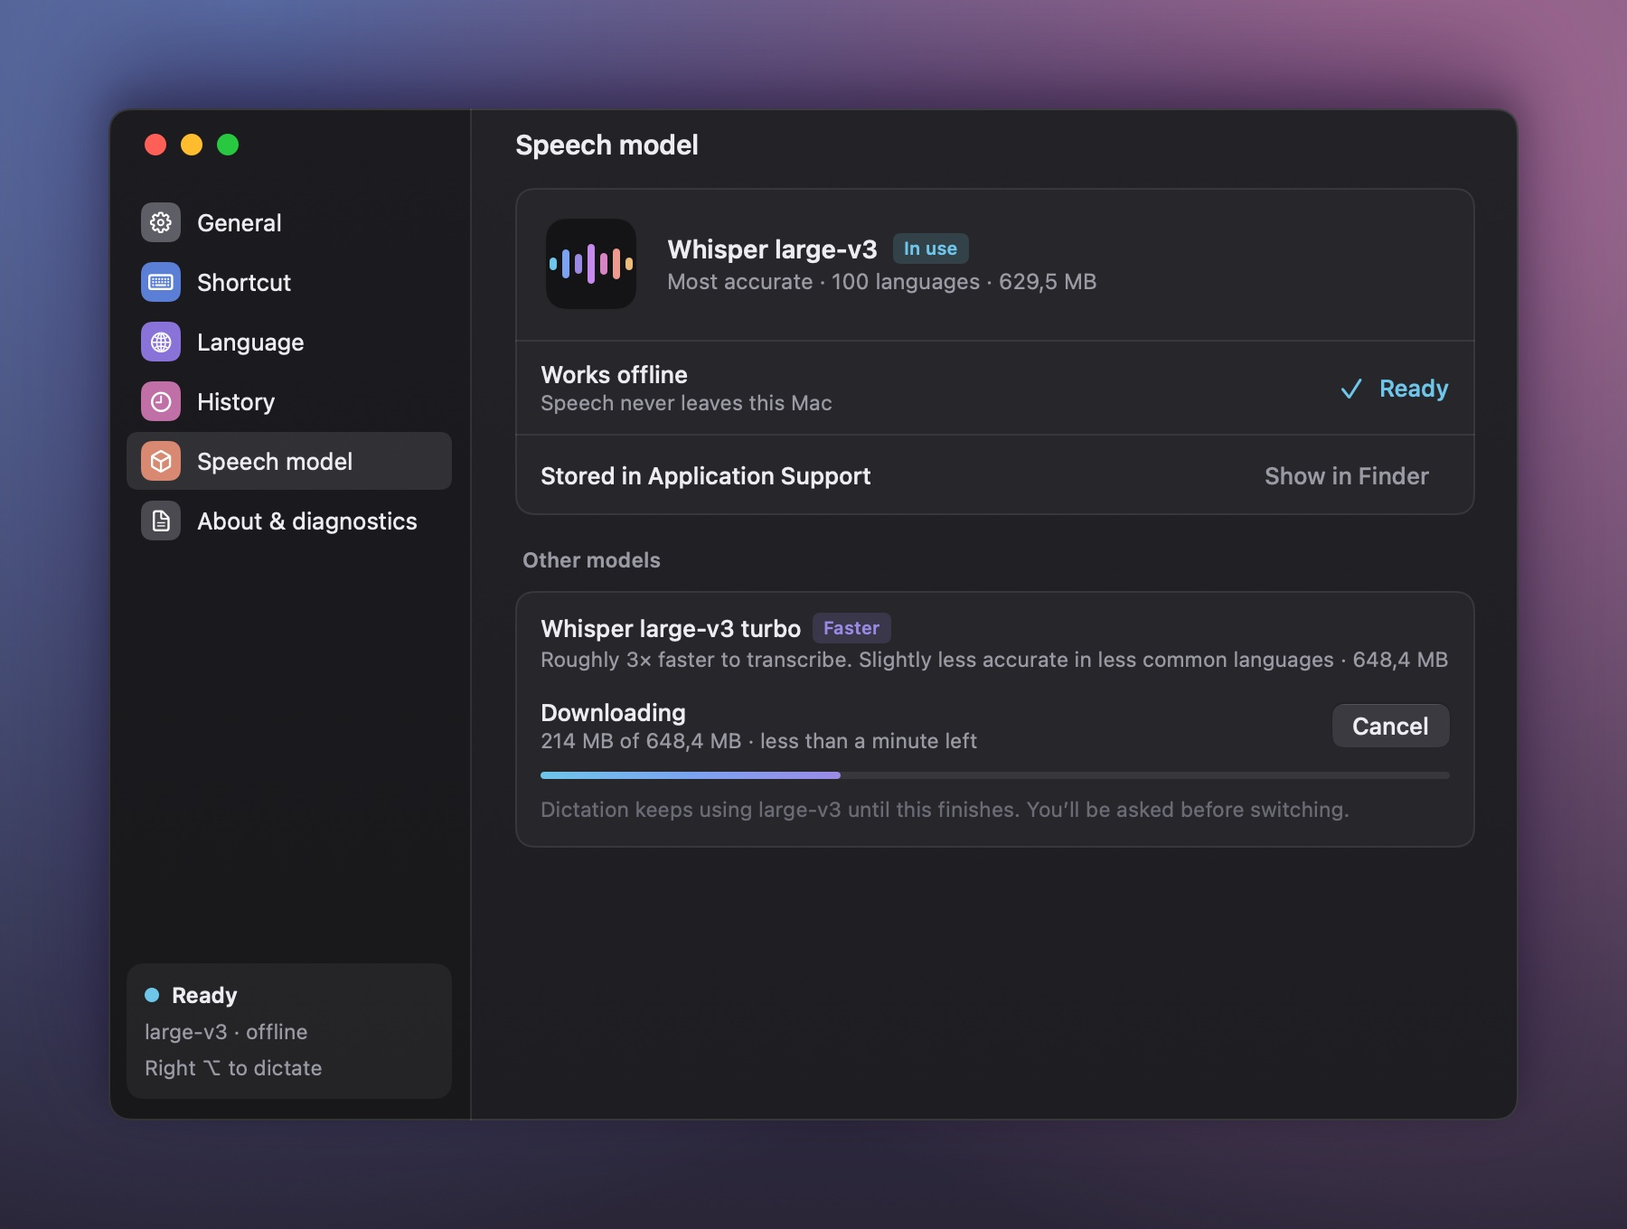
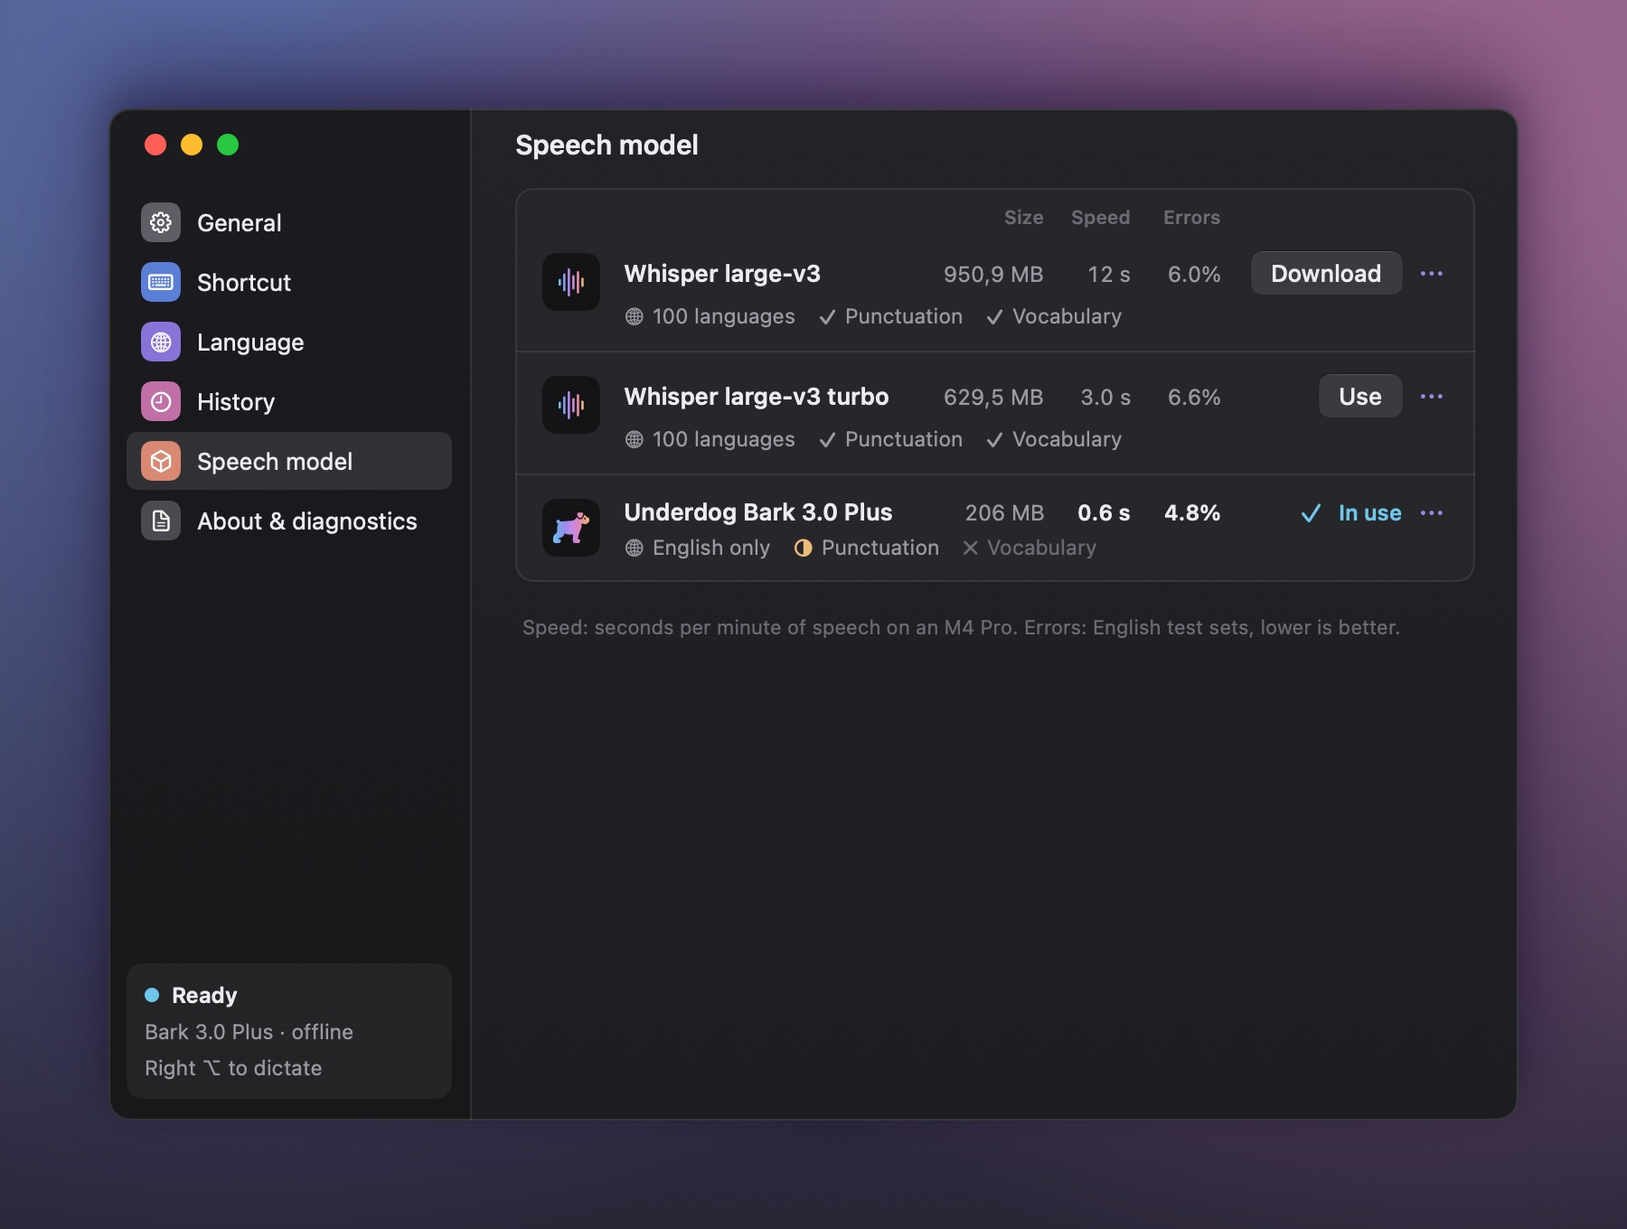
docs: describe the speech models and how to choose one
The README compares the three models with their measured speed, word
errors and languages, shows the setup chooser and the language picker
while Bark is in use, and explains how to prefetch, smoke-test and
benchmark each model. The privacy policy names Bark's Hugging Face
repository as a download source, with the new download sizes.

diff --git a/docs/privacy/index.html b/docs/privacy/index.html
@@ -89,7 +89,7 @@
               <li><strong>VibeScribe does not collect any personal data.</strong> Nothing you say, dictate or type is sent to us or to anyone else.</li>
               <li><strong>Your voice is processed on your Mac.</strong> The audio is held in memory only while it is being transcribed, then discarded. It is never saved to disk and never uploaded.</li>
               <li><strong>Your transcripts, history, vocabulary and settings stay on your Mac</strong>, and you can delete them at any time.</li>
-              <li><strong>The only network access is downloading the Whisper speech model</strong> from Hugging Face (huggingface.co). Like any download, this reveals your Mac’s IP address to Hugging Face.</li>
+              <li><strong>The only network access is downloading the speech model you choose</strong> from Hugging Face (huggingface.co). Like any download, this reveals your Mac’s IP address to Hugging Face.</li>
               <li><strong>There are no analytics, ads, tracking, third-party SDKs or accounts.</strong></li>
             </ul>
           </div>
@@ -102,7 +102,7 @@
         <p>VibeScribe listens only while you hold your dictation shortcut, or after you tap it to start hands-free dictation, until you stop or cancel. The audio:</p>
         <ul>
           <li>comes from the microphone you choose in Settings › General,</li>
-          <li>is kept in your Mac’s memory while the Whisper model transcribes it on your Mac,</li>
+          <li>is kept in your Mac’s memory while the speech model transcribes it on your Mac,</li>
           <li>is discarded as soon as the text is ready or you cancel with esc,</li>
           <li>is never written to disk, never uploaded and never shared.</li>
         </ul>
@@ -119,7 +119,7 @@
           <li><strong>Transcript history.</strong> When history is on, each transcript is saved with its date and time, its language, the length of the recording, and the name of the app it was pasted into (or “Clipboard”). History is kept for 30 days by default. In Settings › History you can choose Don’t keep history, Keep 1 day, Keep 7 days, Keep 30 days or Keep forever. Older entries are deleted automatically.</li>
           <li><strong>Your latest transcript</strong> is also kept in memory, even when history is off, so that you can copy it from the menu bar. It is gone when you quit VibeScribe.</li>
           <li><strong>Settings and vocabulary.</strong> Your shortcuts, languages (chosen, pinned and recently used), microphone choice, sound, pasting and menu bar options, history setting, chosen speech model and the vocabulary words you enter are stored in the app’s standard macOS preferences.</li>
-          <li><strong>Speech models.</strong> The Whisper model files, about 630 MB for large-v3 and about 650 MB for large-v3 turbo, are stored in the app’s Application Support folder.</li>
+          <li><strong>Speech models.</strong> The speech model files, about 950 MB for Whisper large-v3, about 630 MB for large-v3 turbo and about 210 MB for Underdog Bark 3.0 Plus, are stored in the app’s Application Support folder.</li>
           <li><strong>Activity log.</strong> VibeScribe keeps a short technical log in memory, such as “Recording stopped” or “Pasted into the active app”. It never contains what you said, it is not saved to disk, and it is cleared when you quit. If you click <strong>Copy diagnostic report</strong> in Settings › About &amp; diagnostics, the log, together with the app and macOS versions, model status, permission status and your main settings, is copied to your clipboard so you can decide whether to share it. Nothing is sent automatically.</li>
         </ul>
         <h2 id="how-to-delete-your-data">How to delete your data</h2>
@@ -133,8 +133,8 @@
         <h2 id="network-access">Network access</h2>
         <p>VibeScribe connects to the internet for one purpose only: downloading speech model files from Hugging Face, Inc. at huggingface.co, which may hand large files over to its content delivery network.</p>
         <ul>
-          <li><strong>When:</strong> during setup, after you click “Set up VibeScribe”; when you choose to download another model, such as large-v3 turbo, in Settings › Speech model; and if the model files on your Mac are missing or damaged, when you download them again.</li>
-          <li><strong>What is requested:</strong> fixed versions of public files, namely Argmax’s Core ML conversion of Whisper (argmaxinc/whisperkit-coreml) and OpenAI’s Whisper tokenizer files (openai/whisper-large-v3). Each file is checked against a known SHA-256 checksum before it is used.</li>
+          <li><strong>When:</strong> during setup, after you choose a speech model; when you choose to download another model, such as large-v3 or Bark 3.0 Plus, in Settings › Speech model or the language picker; and if the model files on your Mac are missing or damaged, when you download them again.</li>
+          <li><strong>What is requested:</strong> fixed versions of public files, namely Argmax’s Core ML conversion of Whisper (argmaxinc/whisperkit-coreml), OpenAI’s Whisper tokenizer files (openai/whisper-large-v3) and Conway Research’s Core ML package of Underdog Bark 3.0 Plus (ConwayResearch/Underdog-Bark-3.0-Plus). Each file is checked against a known SHA-256 checksum before it is used.</li>
           <li><strong>What is sent:</strong> only ordinary download requests. No audio, transcripts, vocabulary, settings, account details or identifiers are sent. The download keeps no cookies or cache afterwards.</li>
           <li><strong>What Hugging Face sees:</strong> like any web server, Hugging Face and its delivery network receive your Mac’s IP address and standard request details, such as the time of the request and a basic description of the software making it. Hugging Face handles this under its own privacy policy: <a href="https://huggingface.co/privacy">huggingface.co/privacy</a>. We do not receive this information.</li>
         </ul>
@@ -152,7 +152,7 @@
         </div>
         <p>You can change these at any time in System Settings › Privacy &amp; Security.</p>
         <h2 id="third-party-components">Third-party components</h2>
-        <p>VibeScribe uses WhisperKit, open-source software by Argmax, Inc., to run OpenAI’s Whisper speech recognition models on your Mac. Both run entirely on your Mac inside VibeScribe and send nothing to Argmax, OpenAI or anyone else. VibeScribe contains no analytics, advertising, crash-reporting or tracking code.</p>
+        <p>VibeScribe uses WhisperKit, open-source software by Argmax, Inc., to run OpenAI’s Whisper speech recognition models on your Mac, and Apple’s Core ML to run Underdog Bark, an English speech recognition model by Conway Research. All of it runs entirely on your Mac inside VibeScribe and sends nothing to Argmax, OpenAI, Conway Research or anyone else. VibeScribe contains no analytics, advertising, crash-reporting or tracking code.</p>
         <h2 id="children">Children</h2>
         <p>VibeScribe is a general-purpose tool and is not directed at children. It does not collect personal data from anyone, including children. If you believe a child has shared personal information with us, for example in a public GitHub issue, contact us and we will help remove it.</p>
         <h2 id="this-website">This website</h2>

diff --git a/README.md b/README.md
@@ -2,7 +2,7 @@
 
 ![VibeScribe: hold a key, speak, and it’s pasted](assets/hero.jpg)
 
-A menu bar app for push-to-talk dictation on Mac. Hold a key, speak, and let go: VibeScribe types what you said wherever your cursor is. Speech is transcribed on your Mac with [WhisperKit](https://github.com/argmaxinc/argmax-oss-swift), in 100 languages. No account, API key or cloud service is involved.
+A menu bar app for push-to-talk dictation on Mac. Hold a key, speak, and let go: VibeScribe types what you said wherever your cursor is. Speech is transcribed on your Mac, either by Whisper through [WhisperKit](https://github.com/argmaxinc/argmax-oss-swift) in 100 languages, or by the faster, English-only [Underdog Bark](https://huggingface.co/ConwayResearch/Underdog-Bark-3.0-Plus). No account, API key or cloud service is involved.
 
 ## Install
 
@@ -19,7 +19,7 @@ The app runs on macOS 14 or later on Apple Silicon. Building it requires macOS 1
    ```
 
 2. Move `VibeScribe.app` to your Applications folder and open it.
-3. Follow the setup window. It asks for three permissions and downloads the speech model (about 630 MB) while you grant them:
+3. Follow the setup window. Pick a speech model, then grant three permissions while it downloads:
    - **Microphone**, to hear you
    - **Input Monitoring**, so the shortcut works in every app
    - **Accessibility**, to paste for you. Without it, transcripts are copied and you press ⌘V yourself.
@@ -46,17 +46,21 @@ A small pill below the menu bar shows what’s happening. The waveform follows y
 
 ### First launch
 
-The model download starts on the first screen and continues while you grant permissions, so you rarely wait on a progress bar. You can pause it, and if your connection drops it resumes on its own.
+The second screen compares the speech models by size, speed, accuracy and languages. The one you pick starts downloading right away and keeps going while you grant permissions, so you rarely wait on a progress bar. You can pause it, and if your connection drops it resumes on its own.
 
 ![Setup: welcome screen and practice run](assets/screenshots/setup-welcome.jpg)
+
+<img src="assets/screenshots/setup-model.jpg" width="560" alt="Setup: choosing a speech model, with size, speed, word errors and languages for Whisper large-v3, large-v3 turbo and Underdog Bark 3.0 Plus">
 
 ![Setup: permissions and the model download](assets/screenshots/setup.jpg)
 
 ### Languages
 
-Press **⌥⇧** anywhere to search the 100 languages by English or native name. Pin up to three favourites for **⌘1–⌘3**; the languages you used recently sit just below them. **Automatic** detects the language for you.
+Press **⌥⇧** anywhere to search the 100 languages by English or native name. Pin up to three favourites for **⌘1–⌘3**; the languages you used recently sit just below them. **Automatic** detects the language for you. Bark understands only English, so while it’s in use the picker offers to switch to Whisper instead.
 
 ![The language picker, empty and while searching](assets/screenshots/language-picker.jpg)
+
+<img src="assets/screenshots/language-picker-english.jpg" width="380" alt="The language picker while Bark is in use: Bark 3.0 Plus only understands English, with a button to switch to Whisper large-v3 turbo">
 
 ### The menu bar
 
@@ -66,7 +70,7 @@ The icon shows what VibeScribe is doing: ready, recording (the only time it turn
 
 ### Settings
 
-Pick a microphone and watch its input level, choose whether text is pasted or only copied, record any shortcut, and add a vocabulary of names and jargon so the model spells them your way.
+Pick a microphone and watch its input level, choose whether text is pasted or only copied, record any shortcut, and add a vocabulary of names and jargon so Whisper spells them your way.
 
 ![General settings](assets/screenshots/settings-general.jpg)
 
@@ -76,9 +80,20 @@ Pick a microphone and watch its input level, choose whether text is pasted or on
 
 ![Transcript history](assets/screenshots/settings-history.jpg)
 
-**Speech model** shows what’s installed. Switch to **large-v3 turbo** for roughly 3× faster transcription, at a small cost in accuracy for less common languages. It downloads in the background while dictation keeps working.
+**Speech model** compares the models and shows what’s installed. A new model downloads and loads in the background, and dictation keeps using the current one until it’s ready.
 
-![Speech model settings with the turbo model downloading](assets/screenshots/settings-model.jpg)
+| Model | Download | A minute of speech¹ | Word errors² | Languages |
+|---|--:|--:|--:|---|
+| Whisper large-v3 | 951 MB | 12 s | 6.0% | 100 |
+| Whisper large-v3 turbo | 629 MB | 3.0 s | 6.6% | 100 |
+| [Underdog Bark 3.0 Plus](https://huggingface.co/ConwayResearch/Underdog-Bark-3.0-Plus) | 206 MB | 0.6 s | 4.8% | English |
+
+¹ Time to transcribe on an M4 Pro MacBook Pro, the median of three runs after a warm-up.
+² Average across the [Open ASR Leaderboard](https://huggingface.co/spaces/hf-audio/open_asr_leaderboard)’s seven English test sets; lower is better. Whisper’s scores are the leaderboard’s for OpenAI’s models, of which the downloads are Argmax’s compressed builds. Bark’s score is Underdog’s, measured with the leaderboard’s code.
+
+Bark needs macOS 15. It understands only English and doesn’t use your vocabulary. It writes short phrases without capitals or punctuation, so VibeScribe gives those a capital and a full stop. Each model’s first load compiles it for your Mac’s chip: under a minute for the Whisper models, about three for Bark.
+
+![Speech model settings with Bark in use](assets/screenshots/settings-model.jpg)
 
 ## Privacy
 
@@ -94,13 +109,19 @@ Run from source with the same first-launch flow:
 swift run VibeScribe
 ```
 
-To prefetch the model into the ignored build cache for development or offline smoke tests, run `python3 scripts/download_whisper_model.py`.
+To prefetch a model into the ignored build cache for development or offline smoke tests, run `python3 scripts/download_whisper_model.py`, adding `--model large-v3` or `--model bark-plus` for the others.
 
 Build and run the tests. They use a small executable harness, so Xcode isn’t required:
 
 ```bash
 swift build
 swift run VibeScribeTests
+```
+
+Three smoke tests use downloaded models. `--model-smoke <folder> <audio>` transcribes with a Whisper model, `--bark-smoke <folder> <audio>…` with Bark, and `--switch-smoke <turbo folder> <model> <folder> <audio>` checks that dictation keeps working while another model compiles. The speeds above come from a release build:
+
+```bash
+swift run -c release -Xswiftc -enable-testing VibeScribeTests --benchmark barkPlus .build/BarkModel-plus minute.wav
 ```
 
 The README images are rendered from the app’s real SwiftUI views with sample data:
@@ -118,10 +139,12 @@ swift run VibeScribeScreenshots assets
 | Setup window | `Sources/VibeScribeCore/UI/OnboardingView.swift` |
 | Settings window | `Sources/VibeScribeCore/UI/SettingsView.swift`, `SettingsPages.swift` |
 | Language picker | `Sources/VibeScribeCore/UI/LanguagePickerView.swift` |
+| Speech models and switching | `Sources/VibeScribeCore/SpeechModels.swift`, `WhisperKitClient.swift` |
+| Bark (frontend, decoder, `.npz` reader) | `Sources/VibeScribeCore/BarkEngine.swift`, `NumpyArchive.swift` |
 | Menu bar | `Sources/VibeScribeCore/MenuBarController.swift` |
 | Colours and components | `Sources/VibeScribeCore/UI/Theme.swift`, `Spectrum.swift`, `Controls.swift` |
 | Shortcuts and hold/tap logic | `HotkeyListener.swift`, `HotkeyCoordinator.swift` |
-| Pinned model downloads | `scripts/whisper_model_manifest.json`, `scripts/whisper_model_manifest_turbo.json` |
+| Pinned model downloads | `scripts/whisper_model_manifest.json`, `scripts/whisper_model_manifest_turbo.json`, `scripts/bark_model_manifest_plus.json` |
 
 ### Packaging
 

diff --git a/PRIVACY.md b/PRIVACY.md
@@ -9,7 +9,7 @@ This policy explains how VibeScribe, the dictation app for Mac, handles your inf
 - **VibeScribe does not collect any personal data.** Nothing you say, dictate or type is sent to us or to anyone else.
 - **Your voice is processed on your Mac.** The audio is held in memory only while it is being transcribed, then discarded. It is never saved to disk and never uploaded.
 - **Your transcripts, history, vocabulary and settings stay on your Mac**, and you can delete them at any time.
-- **The only network access is downloading the Whisper speech model** from Hugging Face (huggingface.co). Like any download, this reveals your Mac's IP address to Hugging Face.
+- **The only network access is downloading the speech model you choose** from Hugging Face (huggingface.co). Like any download, this reveals your Mac's IP address to Hugging Face.
 - **There are no analytics, ads, tracking, third-party SDKs or accounts.**
 
 ## Who is responsible
@@ -25,7 +25,7 @@ Nothing. VibeScribe has no servers of its own and no sign-in. We do not receive 
 VibeScribe listens only while you hold your dictation shortcut, or after you tap it to start hands-free dictation, until you stop or cancel. The audio:
 
 - comes from the microphone you choose in Settings > General,
-- is kept in your Mac's memory while the Whisper model transcribes it on your Mac,
+- is kept in your Mac's memory while the speech model transcribes it on your Mac,
 - is discarded as soon as the text is ready or you cancel with esc,
 - is never written to disk, never uploaded and never shared.
 
@@ -50,7 +50,7 @@ Everything below stays on your Mac and is never sent anywhere. History and speec
 - **Transcript history.** When history is on, each transcript is saved with its date and time, its language, the length of the recording, and the name of the app it was pasted into (or "Clipboard"). History is kept for 30 days by default. In Settings > History you can choose Don't keep history, Keep 1 day, Keep 7 days, Keep 30 days or Keep forever. Older entries are deleted automatically.
 - **Your latest transcript** is also kept in memory, even when history is off, so that you can copy it from the menu bar. It is gone when you quit VibeScribe.
 - **Settings and vocabulary.** Your shortcuts, languages (chosen, pinned and recently used), microphone choice, sound, pasting and menu bar options, history setting, chosen speech model and the vocabulary words you enter are stored in the app's standard macOS preferences.
-- **Speech models.** The Whisper model files, about 630 MB for large-v3 and about 650 MB for large-v3 turbo, are stored in the app's Application Support folder.
+- **Speech models.** The speech model files, about 950 MB for Whisper large-v3, about 630 MB for large-v3 turbo and about 210 MB for Underdog Bark 3.0 Plus, are stored in the app's Application Support folder.
 - **Activity log.** VibeScribe keeps a short technical log in memory, such as "Recording stopped" or "Pasted into the active app". It never contains what you said, it is not saved to disk, and it is cleared when you quit. If you click **Copy diagnostic report** in Settings > About & diagnostics, the log, together with the app and macOS versions, model status, permission status and your main settings, is copied to your clipboard so you can decide whether to share it. Nothing is sent automatically.
 
 ## How to delete your data
@@ -66,8 +66,8 @@ We hold no data about you, so there is nothing for us to delete on our side.
 
 VibeScribe connects to the internet for one purpose only: downloading speech model files from Hugging Face, Inc. at huggingface.co, which may hand large files over to its content delivery network.
 
-- **When:** during setup, after you click "Set up VibeScribe"; when you choose to download another model, such as large-v3 turbo, in Settings > Speech model; and if the model files on your Mac are missing or damaged, when you download them again.
-- **What is requested:** fixed versions of public files, namely Argmax's Core ML conversion of Whisper (argmaxinc/whisperkit-coreml) and OpenAI's Whisper tokenizer files (openai/whisper-large-v3). Each file is checked against a known SHA-256 checksum before it is used.
+- **When:** during setup, after you choose a speech model; when you choose to download another model, such as large-v3 or Bark 3.0 Plus, in Settings > Speech model or the language picker; and if the model files on your Mac are missing or damaged, when you download them again.
+- **What is requested:** fixed versions of public files, namely Argmax's Core ML conversion of Whisper (argmaxinc/whisperkit-coreml), OpenAI's Whisper tokenizer files (openai/whisper-large-v3) and Conway Research's Core ML package of Underdog Bark 3.0 Plus (ConwayResearch/Underdog-Bark-3.0-Plus). Each file is checked against a known SHA-256 checksum before it is used.
 - **What is sent:** only ordinary download requests. No audio, transcripts, vocabulary, settings, account details or identifiers are sent. The download keeps no cookies or cache afterwards.
 - **What Hugging Face sees:** like any web server, Hugging Face and its delivery network receive your Mac's IP address and standard request details, such as the time of the request and a basic description of the software making it. Hugging Face handles this under its own privacy policy: https://huggingface.co/privacy. We do not receive this information.
 
@@ -85,7 +85,7 @@ You can change these at any time in System Settings > Privacy & Security.
 
 ## Third-party components
 
-VibeScribe uses WhisperKit, open-source software by Argmax, Inc., to run OpenAI's Whisper speech recognition models on your Mac. Both run entirely on your Mac inside VibeScribe and send nothing to Argmax, OpenAI or anyone else. VibeScribe contains no analytics, advertising, crash-reporting or tracking code.
+VibeScribe uses WhisperKit, open-source software by Argmax, Inc., to run OpenAI's Whisper speech recognition models on your Mac, and Apple's Core ML to run Underdog Bark, an English speech recognition model by Conway Research. All of it runs entirely on your Mac inside VibeScribe and sends nothing to Argmax, OpenAI, Conway Research or anyone else. VibeScribe contains no analytics, advertising, crash-reporting or tracking code.
 
 ## Children
 
